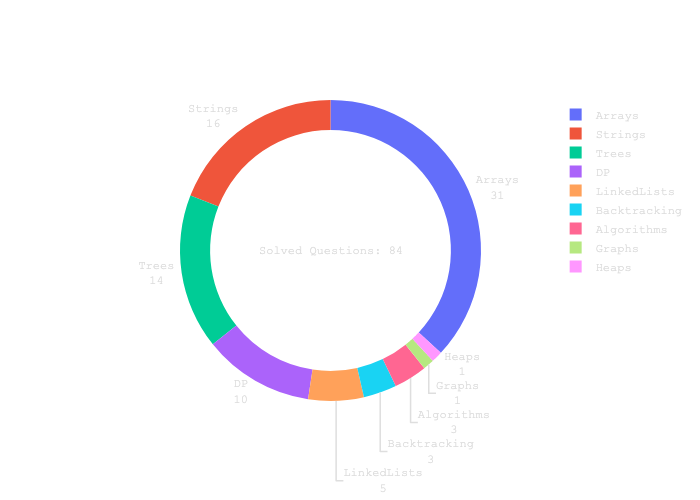
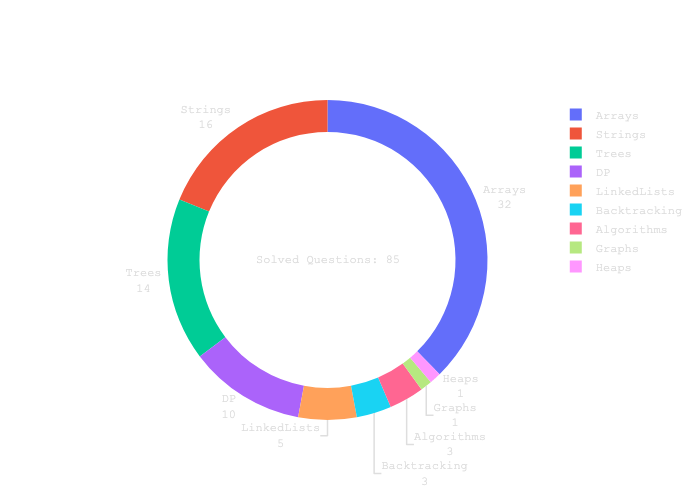
minSubarraySum

diff --git a/Arrays/minSubarrayLen.py b/Arrays/minSubarrayLen.py
@@ -1,0 +1,26 @@
+from typing import List
+
+
+def minSubArrayLen(target: int, nums: List[int]) -> int:
+    N = len(nums)
+    if N == 0:
+        return N
+    l = 0
+    minLen = 10**5 + 1
+    r = 0
+    cur = 0
+    for r in range(N):
+        cur += nums[r]
+        r += 1
+        while cur >= target:
+            minLen = min(minLen, r - l)
+            cur -= nums[l]
+            l += 1
+
+    return 0 if minLen == 10**5 else minLen
+
+
+print(minSubArrayLen(7, [2, 3, 1, 2, 4, 3]))
+print(minSubArrayLen(4, [1, 4, 4]))
+print(minSubArrayLen(11, [1, 4, 4]))
+print(minSubArrayLen(6, [10, 2, 3]))
